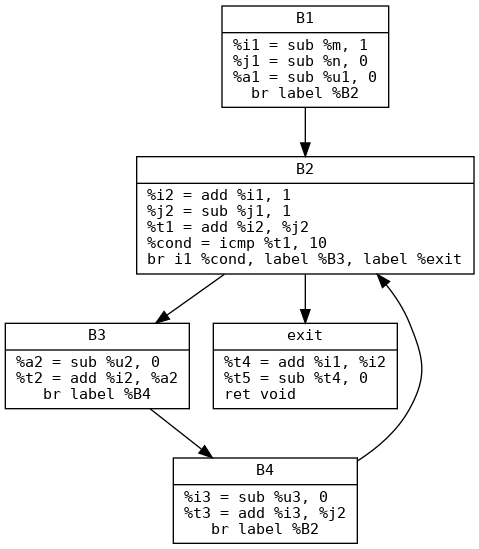
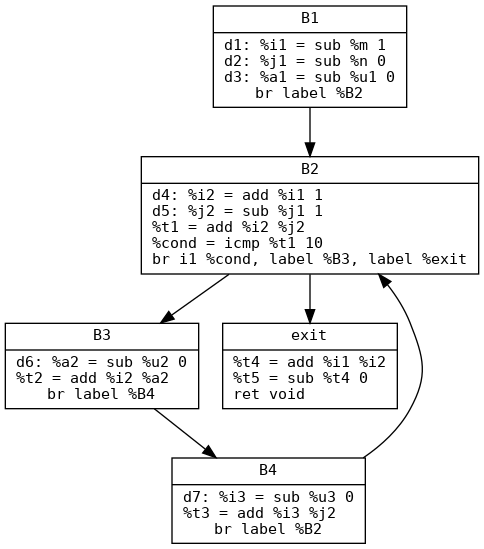
feat: annotate CFG DOT output with definition numbers (d1-d7)

diff --git a/reach-def.cpp b/reach-def.cpp
@@ -129,7 +129,51 @@ map<string, BasicBlock> parseIR(const string& fn) {
     return blocks;
 }
 
+map<pair<string,int>, string> getDefLabels(const map<string, BasicBlock>& blks) {
+    vector<string> order;
+    for (auto& p : blks) order.push_back(p.first);
+
+    // rawId, varName, blockName, instIdx
+    vector<tuple<int,string,string,int>> allRaw;
+    map<string, vector<int>> varDefs;
+
+    for (auto& bname : order) {
+        auto& blk = blks.at(bname);
+        for (size_t ii = 0; ii < blk.instructions.size(); ii++) {
+            auto& inst = blk.instructions[ii];
+            if (inst.result.empty()) continue;
+            string vn = extractVarName(inst.result);
+            if (vn.empty()) continue;
+            int rawId = (int)allRaw.size() + 1;
+            allRaw.push_back(make_tuple(rawId, vn, bname, (int)ii));
+            varDefs[vn].push_back(rawId);
+        }
+    }
+
+    set<string> interesting;
+    for (auto& vd : varDefs) {
+        set<string> dbs;
+        for (int did : vd.second)
+            dbs.insert(get<2>(allRaw[did - 1]));  // blockName at index 2
+        if (dbs.size() > 1 && vd.first != "t" && vd.first != "cond")
+            interesting.insert(vd.first);
+    }
+
+    map<pair<string,int>, string> labels;
+    int newId = 0;
+    for (auto& t : allRaw) {
+        string vn = get<1>(t);
+        if (interesting.count(vn)) {
+            newId++;
+            labels[make_pair(get<2>(t), get<3>(t))] = "d" + to_string(newId);
+        }
+    }
+    return labels;
+}
+
 void outputDOT(const map<string, BasicBlock>& blks, ostream& out) {
+    auto defLabels = getDefLabels(blks);
+
     out << "digraph CFG {" << endl;
     out << "  rankdir=TD;\n  node [shape=record, fontname=\"Consolas\", fontsize=11];\n  edge [fontname=\"Consolas\", fontsize=9];\n\n";
     for (auto& p : blks) {
@@ -138,6 +182,8 @@ void outputDOT(const map<string, BasicBlock>& blks, ostream& out) {
         for (size_t i = 0; i < p.second.instructions.size(); i++) {
             auto& inst = p.second.instructions[i];
             if (i) out << "\\l";
+            auto key = make_pair(p.first, (int)i);
+            if (defLabels.count(key)) out << defLabels.at(key) << ": ";
             if (inst.isBranch) out << inst.raw;
             else if (!inst.result.empty()) {
                 out << inst.result << " = " << inst.opcode;

diff --git a/reach-def.py b/reach-def.py
@@ -121,9 +121,42 @@ def parse_ir(filename):
     return blocks
 
 
+# ======================== 定义编号计算 (供 DOT 和分析共用) ========================
+
+def get_def_labels(blocks):
+    """返回 {(blockName, instIndex): 'dN', ...} 表示每条指令的定义编号"""
+    block_order = list(blocks.keys())
+    all_raw = []
+    var_defs = OrderedDict()
+
+    for bname in block_order:
+        for ii, inst in enumerate(blocks[bname].instructions):
+            if not inst.result:
+                continue
+            var_name = extract_var_name(inst.result)
+            if not var_name:
+                continue
+            all_raw.append((len(all_raw) + 1, var_name, bname, ii))
+            var_defs.setdefault(var_name, []).append(len(all_raw))
+
+    interesting_vars = set()
+    for vn, ids in var_defs.items():
+        def_blocks = set(all_raw[i - 1][2] for i in ids)
+        if len(def_blocks) > 1 and vn != 't':
+            interesting_vars.add(vn)
+
+    filtered = [d for d in all_raw if d[1] in interesting_vars]
+    labels = {}
+    for new_id, (old_id, var_name, bname, ii) in enumerate(filtered, 1):
+        labels[(bname, ii)] = f'd{new_id}'
+    return labels
+
+
 # ======================== DOT 格式输出 ========================
 
 def output_dot(blocks, out):
+    def_labels = get_def_labels(blocks)
+
     out.write("digraph CFG {\n")
     out.write("  rankdir=TD;\n")
     out.write('  node [shape=record, fontname="Consolas", fontsize=11];\n')
@@ -133,10 +166,13 @@ def output_dot(blocks, out):
         out.write(f'  "{name}" [label="{{')
         out.write(f'{name} | ')
         first = True
-        for inst in block.instructions:
+        for ii, inst in enumerate(block.instructions):
             if not first:
                 out.write('\\l')
             first = False
+            dl = def_labels.get((name, ii), '')
+            if dl:
+                out.write(dl + ': ')
             if inst.is_branch:
                 out.write(inst.raw)
             elif inst.result:

diff --git a/docs/reaching-defs-analysis.md b/docs/reaching-defs-analysis.md
@@ -28,7 +28,7 @@ OUT[B] = Gen[B] ∪ (IN[B] - Kill[B])
 i = m - 1;    // d1
 j = n;        // d2
 a = u1;       // d3
-while (...) {
+while (i + j < 10) {
     i = i + 1;   // d4
     j = j - 1;   // d5
     a = u2;      // d6